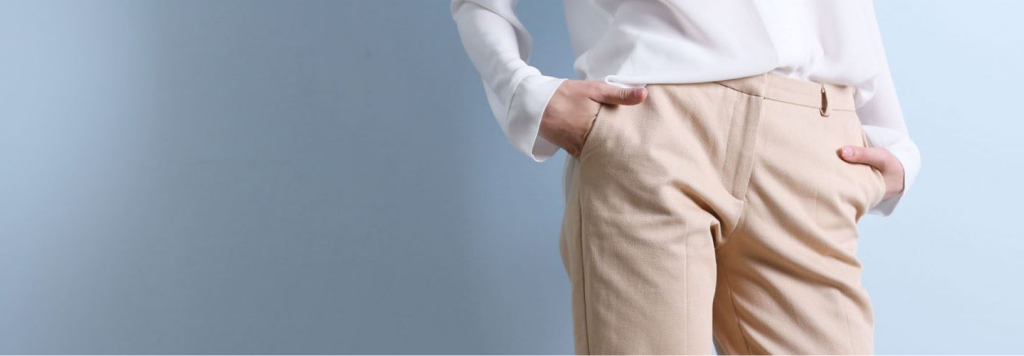
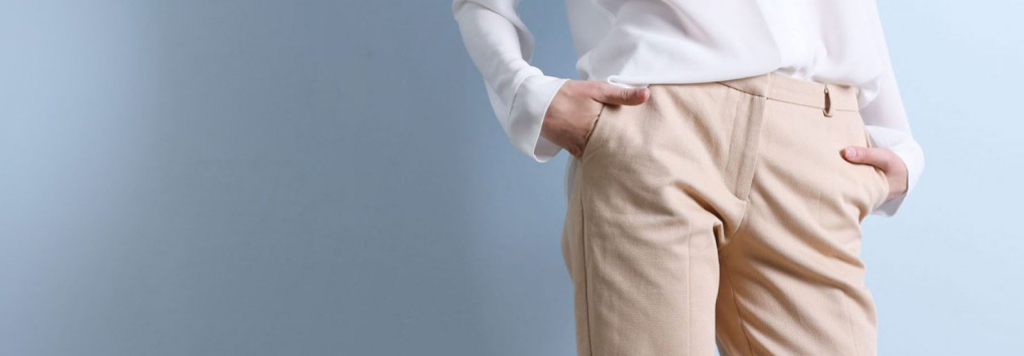
правки слайдера

diff --git a/index.html b/index.html
@@ -678,7 +678,10 @@
           <source
             media="(max-width: 1280px)"
             srcset="./i/main-slides/01-768.jpg">
-          <img src="./i/main-slides/01-1024.jpg" alt="Сезонная распродажа поднимет вам настроение">
+          <source
+            media="(max-width: 1900px)"
+            srcset="./i/main-slides/01-1024.jpg">
+          <img src="./i/main-slides/01-1920.jpg" alt="Сезонная распродажа поднимет вам настроение">
         </picture>
 
         <div class="main-slide__container-outer">
@@ -695,11 +698,14 @@
         <picture class="main-slide__pic">
           <source
             media="(max-width: 640px)"
-            srcset="./i/main-slides/01-414.jpg">
+            srcset="./i/main-slides/02-414.jpg">
           <source
             media="(max-width: 1280px)"
-            srcset="./i/main-slides/01-768.jpg">
-          <img src="./i/main-slides/01-1024.jpg" alt="Сезонная распродажа поднимет вам настроение">
+            srcset="./i/main-slides/02-768.jpg">
+          <source
+            media="(max-width: 1900px)"
+            srcset="./i/main-slides/02-1024.jpg">
+          <img src="./i/main-slides/02-1920.jpg" alt="BLACK FRIDAY СКИДКИ ДО 70%*">
         </picture>
         <div class="main-slide__container-outer">
           <div class="main-slide__container-inner">
